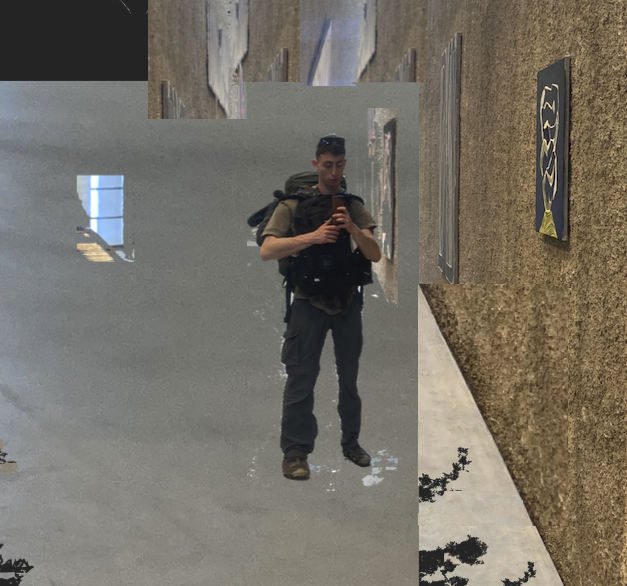
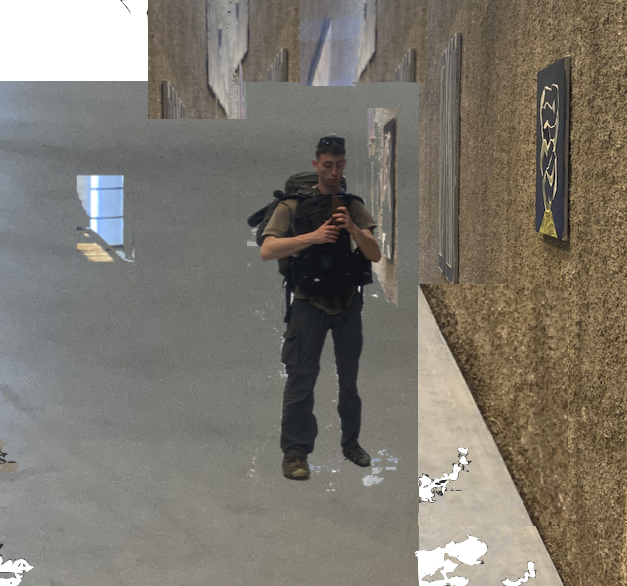
added images and texts

diff --git a/revelation.js b/revelation.js
@@ -15,7 +15,9 @@ document.addEventListener('DOMContentLoaded', () => {
             document.querySelector('.container.pink .content').innerHTML = data.post_pinkContainerText; 
             document.querySelector('.container.privileges .content').innerHTML = data.post_privilegesContainerText;
             document.querySelector('.container.food .content').innerHTML = data.post_foodContainerText;
-            document.querySelector('.container.boundries .content').innerHTML = data.post_boundriesContainerText;  
+            document.querySelector('.container.boundries .content').innerHTML = data.post_boundriesContainerText; 
+            document.querySelector('.container.grey .content').innerHTML = data.post_greyContainerText;  
+            document.querySelector('.container.orange .content').innerHTML = data.post_orangeContainerText;
         })
         .catch(error => console.error('Error loading content:', error));
 
@@ -23,17 +25,44 @@ document.addEventListener('DOMContentLoaded', () => {
         function displayObjectsBasedOnScore(userScore) {
             containers.forEach(container => {
                 container.style.display = 'none';
-    
-                if (userScore == 14) {
-                    container.style.display = 'block';
-                } else if (userScore >= 10 && userScore < 14) {
-                    if (container.classList.contains('pink') || container.classList.contains('green')) {
+        
+                switch (true) {
+                    case userScore == 14:
+                        if (container.classList.contains('green') || 
+                        container.classList.contains('earth') || 
+                        container.classList.contains('orange') || 
+                        container.classList.contains('grey') || 
+                        container.classList.contains('food') || 
+                        container.classList.contains('boundries') || 
+                        container.classList.contains('privileges') || 
+                        container.classList.contains('imgOne') || 
+                        container.classList.contains('sakit') || 
+                        container.classList.contains('imgThree')) {
+                            container.style.display = 'block';
+                        }
+                        break;
+                    case userScore >= 12 && userScore < 14:
+                        if (container.classList.contains('green') || // removed earth
+                        container.classList.contains('grey') || 
+                        container.classList.contains('orange') || 
+                        container.classList.contains('food') || 
+                        container.classList.contains('boundries') || 
+                        container.classList.contains('privileges') || 
+                        container.classList.contains('imgOne') || 
+                        container.classList.contains('sakit')) { // removed imgThree
+                            container.style.display = 'block';
+                        }
+                        break;
+                    case userScore >= 7 && userScore < 10:
+                    if (!container.classList.contains('grey') || !container.classList.contains('pink') || !container.classList.contains('green')) {
                         container.style.display = 'block';
                     }
-                } else if (userScore >= 5 && userScore < 10) {
-                    if (container.classList.contains('grey')) {
+                    break;
+                    case userScore >= 2 && userScore < 7:
+                    if (!container.classList.contains('grey') || !container.classList.contains('pink') || !container.classList.contains('green') || !container.classList.contains('earth')) {
                         container.style.display = 'block';
                     }
+                    break;
                 }
             });
         }
@@ -91,11 +120,11 @@ document.addEventListener('DOMContentLoaded', () => {
                     container.style.top = `${0.12 * height}px`; 
                     break;
             case(container.classList.contains('earth')):
-                container.style.left = `${width - 700}px`;
-                container.style.top = `${0.52 * height}px`;
+                container.style.left = `${width - 500}px`;
+                container.style.top = `${0.42 * height}px`;
             break;
             case(container.classList.contains('grey')):
-                container.style.left = `${0.30 * width}px`;
+                container.style.left = `${0.1 * width}px`;
                 container.style.top = `${0.45 * height}px`;
                 break;
             case(container.classList.contains('green')):
@@ -118,7 +147,7 @@ document.addEventListener('DOMContentLoaded', () => {
             container.style.left = `${0.1 * width}px`;
             container.style.top = `${0.3 * height}px`;
             break;
-            case(container.classList.contains('imgTwo')):
+            case(container.classList.contains('sakit')):
                 container.style.left = `${0.42 * width}px`;
                 container.style.top = `${0.55 * height}px`; 
                 break;

diff --git a/styleRevelation.css b/styleRevelation.css
@@ -6,7 +6,7 @@ body {
     align-items: center;
     height: 100vh;
     margin: 0;
-    background-color: hsl(0, 3%, 47%);
+    background-color: hsla(0, 71%, 75%, 0.687);
     position: relative;
     overflow: hidden; 
 }
@@ -37,7 +37,7 @@ body {
     left: 50%;
     overflow: hidden; 
     white-space: pre-wrap; 
-    font-size: 0.7em;
+    font-size: 0.6em;
     color: #f7f2f2;
 }
 
@@ -62,7 +62,7 @@ body {
 }
 
 .earth {
-    background-color: #a7a1a1;
+    background-color: #a7a1a100;
     width: 300px;
     height: 420px;
     z-index: 3;
@@ -70,9 +70,6 @@ body {
 
 .orange {
     background-color: hsl(23, 58%, 81%);
-    border: 5px solid hsl(0, 22%, 85%);
-    box-sizing: border-box;
-    overflow: hidden;
     height: 200px;
     width: 200px;
     z-index: 11;
@@ -81,7 +78,7 @@ body {
 
 
 .green {
-    background-color: hsla(120, 19%, 61%, 0.611);
+    background-color: hsla(0, 72%, 75%, 0);
     height: 350px;
     width: 350px;
     scale: 0.6;
@@ -90,7 +87,7 @@ body {
 
 .grey {
     background-color: rgb(195, 187, 170);
-    height: 250px;
+    height: 150px;
     width: 240px;
     z-index: 4;
 }
@@ -108,7 +105,7 @@ body {
     z-index: 4;
 }
 .privileges {
-    background-color: #a6b7a8;
+    background-color: #c384b2;
     height: 250px;
     width: 240px;
     z-index: 4;
@@ -130,7 +127,7 @@ body {
     z-index: 9;
 }
 
-.imgTwo {
+.sakit {
     width: 100%;
     height: 50%;
     scale: 0.7;

diff --git a/revelation.html b/revelation.html
@@ -30,14 +30,15 @@
             <div class="container privileges">
                 <div class="content">some text</div>
             </div>
-            <div class="container ripple-container">
+            <div class="container grey">
+                <div class="content">some text</div>
+            </div>
+            <div class="container orange">
                 <div class="content">h</div>
             </div>
-            <div class="container ripple-container">
+            <div class="container sakit">
                 <div class="content">h</div>
-            </div>
-            <div class="container ripple-container">
-                <div class="content">h</div>
+                <img src="./assets/images/sakit.png" alt="sakit">
             </div>
             <div class="container ripple-container">
                 <div class="content">h</div>
